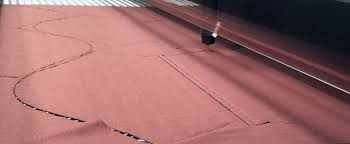
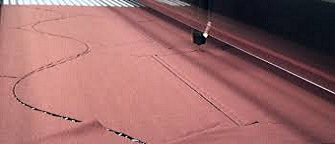
adicione section services, troca de img, estilização btn

diff --git a/index.html b/index.html
@@ -41,8 +41,9 @@
   <link rel="stylesheet" href="./src/css/variaveis.css">
   <link rel="stylesheet" href="./src/css/header.css">
  <link rel="stylesheet" href="./src/css/home.css">
+ <link rel="stylesheet" href="./src/css/services.css">
  <link rel="stylesheet" href="./src/css/about.css">
-  <link rel="stylesheet" href="./src/css/services.css">
+ 
   <link rel="stylesheet" href="./contact.css">
   <link rel="stylesheet" href="./src/css/responsivo.css">
   
@@ -65,12 +66,12 @@
       <div class="swiper home-slider">
         <div class="swiper-wrapper">
 
-          <div class="swiper-slide slide" style="background: url(./src/img/image3.png) no-repeat;">
+          <div class="swiper-slide slide" style="background: url(./src/img/maqCorte.png) no-repeat;">
 
             <div class="content">
               <span>TALHARIA</span>
               <h3>Prestadora de  Serviços.</h3>
-              <a href="#" class="btn">?????botão</a>
+              <a href="#" class="btn">Ver todos os serviços</a>
             </div>  
 
             <div class="content_serv">
@@ -85,6 +86,60 @@
         </div>
         <div class="swiper-pagination"></div>
       </div>
+    </section>
+    
+
+    <section id="services" class="services">
+   
+      <h1 class="heading"><span>O que oferecemos</span></h1>
+  
+      <div class="box-container">
+        <div class="box">
+          <div class="image">
+            <img src="./src/img/mod.png" alt="modelagem" title="modelagem">
+          </div>
+          <div class="content">
+            <h3>modelagem</h3>
+            <p>Falar Mais sobre modelagem</p>
+            <a href="#services" class="btn">Ler Mais</a>
+          </div>
+        </div>
+  
+        <div class="box second">
+          <div class="image">
+            <img src="./src/img/grad.png" alt="graduação" title="graduação">
+          </div>
+          <div class="content">
+            <h3>graduação</h3>
+            <p>Falar Mais sobre graduação</p>
+            <a href="#" class="btn">Ler Mais</a>
+          </div>
+        </div>
+  
+        <div class="box">
+          <div class="image">
+            <img src="./src/img/encaixe.png" alt="" title="">
+          </div>
+          <div class="content">
+            <h3>Encaixe</h3>
+            <p>Falar Mais sobre Encaixe</p>
+            <a href="#" class="btn">Ler Mais</a>
+          </div>
+        </div>
+     
+
+      <div class="box">
+        <div class="image">
+          <img src="./src/img/image2.png" alt="" title="">
+        </div>
+        <div class="content">
+          <h3>Corte</h3>
+          <p>Falar Mais sobre Corte</p>
+          <a href="#" class="btn">Ler Mais</a>
+        </div>
+      </div>
+    </div>
+  </div>
     </section>
 
 

diff --git a/src/css/services.css b/src/css/services.css
@@ -1,0 +1,79 @@
+/*CABEÇALHOS de cada sessão*/
+.heading{
+    text-align: center;
+    margin-bottom: 3rem;
+    position: relative;
+}
+.heading::before{
+    content: '';
+    position: absolute;
+    top: 50%;
+    left: 0;
+    transform: translateY(-50%);
+    height: .1rem;
+    width: 100%;
+    background-color: #aaa;
+    z-index: -1;
+}
+.heading span{
+    font-size: 3rem;
+    color: var(--title-color);
+    background-color: #000;
+    padding: .5rem 1.5rem;
+    border: 0.1rem solid #aaa;
+    border-radius: .5rem;
+}
+
+
+.services .box-container{
+    
+    display: grid;
+    grid-template-columns: repeat(auto-fit, minmax(18rem, 1fr));
+    gap: 1.5rem;
+}
+
+.services .box-container .box{
+    background-color: var(--cor_sobre);  
+}
+
+.services .box-container .box image{
+    width: 100%;
+    height: 30rem;
+    overflow: hidden;
+}
+
+.services .box-container .box image img{
+    width: 100%;
+    height: 100%;
+    object-fit: cover;
+}
+
+.services .box-container .box:hover .image img{
+    transform: scale(1.1);
+}
+
+.services .box-container .box .content{
+    padding: 2rem;
+    text-align: center;
+}
+
+.services .box-container .box .content h3{
+    font-size: 2rem;
+    color: var(--cor_tex);
+}
+
+.services .box-container .box .content p{
+    line-height: 1.5;
+    font-size: 1rem;
+    color: #aaa;
+    padding: 1rem 0;
+}
+
+
+
+
+
+
+
+
+

diff --git a/src/css/home.css b/src/css/home.css
@@ -13,15 +13,15 @@
 }
 
 .home .slide .content span {
-  font-size: 2rem;
-  color: var(--cor_t_a);
-  font-weight: 400;
-  margin-left: 3rem;
+  font-size: 3rem;
+  color: var(--cor_f_a);
+  font-weight: 700;
+  margin-left: 20rem;
   /* display: block; */
 }
 
 .home .slide .content h3 {
-  font-size: 5rem;
+  font-size: 4rem;
   padding: 1rem 0;
 }
 
@@ -32,8 +32,8 @@
   padding: 1rem;
   font-size: 1.5rem;
   letter-spacing: 0.25rem;
-  color: red;
-  font-weight: 400;
+  color: var(--cor_f_a);
+  font-weight: 700;
 }
 .home .slide .content_serv p:hover{
   background-color: var(--cor_f_a);

diff --git a/src/css/reset.css b/src/css/reset.css
@@ -31,3 +31,17 @@ body{
     background-color: #333;
 }
 
+/*botoes*/
+.btn{
+    margin-top: 1rem;
+    display: inline-block;
+    padding: 1rem 2.8rem;
+    padding-right: 2rem;
+    background: linear-gradient(130deg, rgb(238,125,5) 93%, transparent 90%);
+    color: var(--tex-color);
+    cursor: pointer;
+    font-size: 1rem; 
+}
+.btn:hover{
+    transform: scale(1.1);
+}
